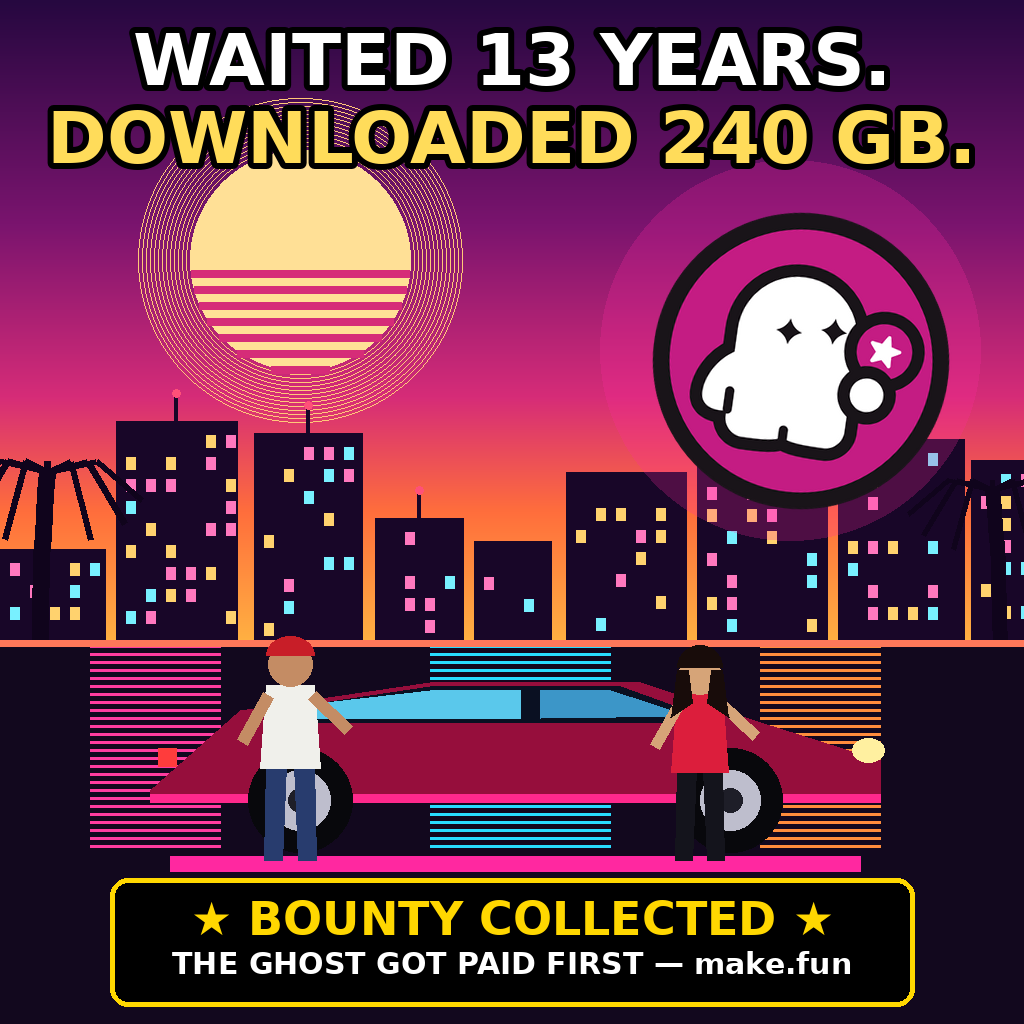
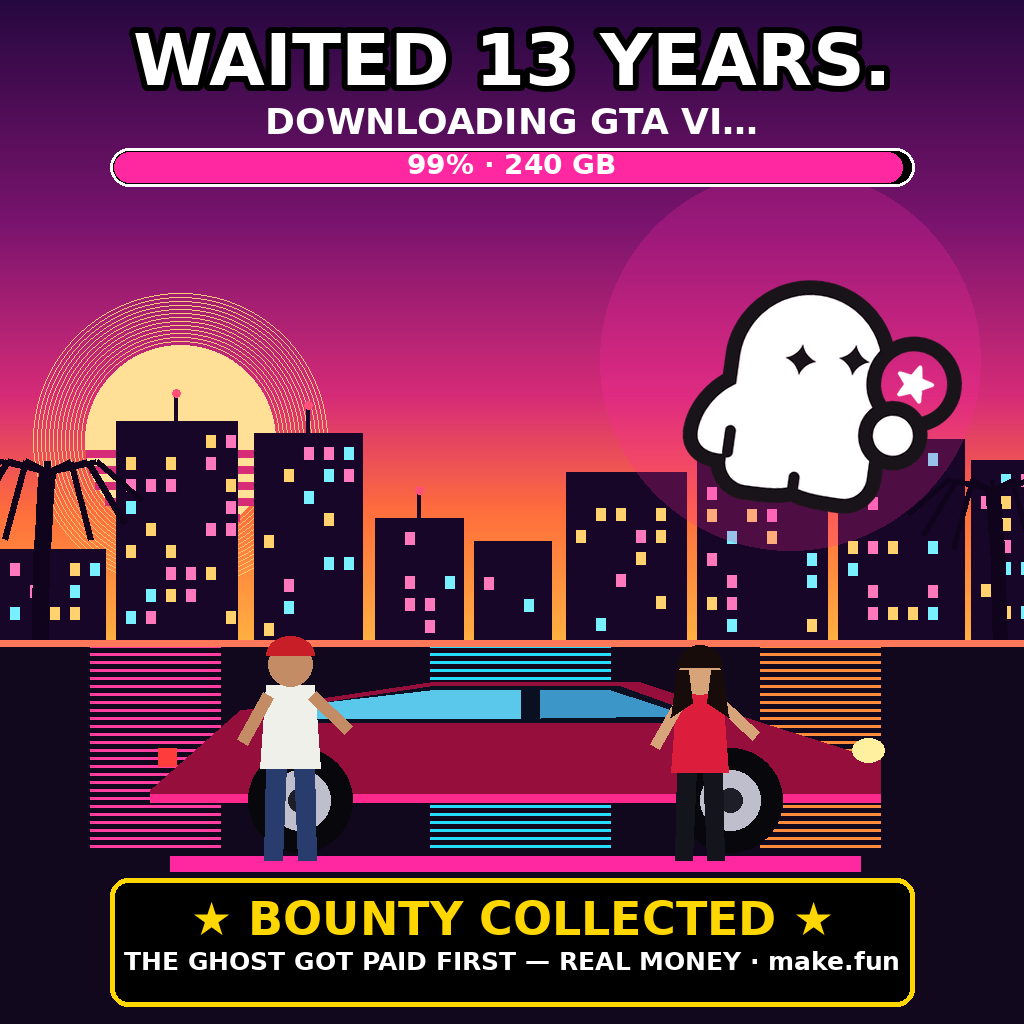
Meme v5: 99% download bar, de-badged ghost in the scene, REAL MONEY popup

diff --git a/scripts/make-meme.py b/scripts/make-meme.py
@@ -2,14 +2,17 @@
 """Draw the gta6-meme-x-01 meme: 'Waited 13 years. Downloaded 240 GB.
 The ghost got paid first.'
 
-Scene: a Vice City sunset. Jason and Lucia lean on a neon sports car,
-watching make.fun's ghost float by, clutching its magenta star coin.
-A GTA-style 'BOUNTY COLLECTED' popup delivers the punchline.
+Scene: a Vice City sunset. Jason and Lucia lean on their neon sports car
+while the GTA VI download sits stuck at 99%, and make.fun's ghost floats
+by, clutching its magenta star coin, already paid. A GTA-style
+'BOUNTY COLLECTED' popup delivers the punchline.
 
-The ghost is pasted in from make.fun's own press kit (mark-1024.png),
-the white ghost with sparkle eyes on its magenta disc, holding the
-magenta coin with the white star. No Rockstar artwork is used: the car,
-the figures, the skyline and the palms are all drawn here with PIL.
+The ghost comes from make.fun's own press kit (mark-1024.png), the white
+ghost with sparkle eyes holding the magenta coin with the white star;
+its magenta disc is stripped out at build time so the ghost itself floats
+in the scene instead of arriving as a round badge. No Rockstar artwork
+is used: the car, the figures, the skyline and the palms are all drawn
+here with PIL.
 """
 import math
 import os
@@ -51,7 +54,7 @@ def sunset(img):
 
 
 def sun(d):
-    cx, cy, r = 300, 260, 110
+    cx, cy, r = 180, 440, 95
     for i in range(14):
         rr = r + i * 4
         d.ellipse([cx - rr, cy - rr, cx + rr, cy + rr], outline=(255, 200, 120))
@@ -134,36 +137,78 @@ def car(d):
                fill=(255, 40, 160), width=2)
 
 
-def figure(d, x, y, s, kind):
-    """A flat-style figure seen from behind, leaning on the car and
-    looking up at the ghost. kind: 'jason' (cap, tank top) or 'lucia'
-    (long dark hair, red top)."""
+def figure(d, x, y, s, kind, running=False):
+    """A flat-style figure seen from behind. Standing: leaning on the car.
+    Running: mid-chase stride, arms pumping, leaning forward after it.
+    kind: 'jason' (cap, tank top) or 'lucia' (long dark hair, red top)."""
     if kind == "jason":
         skin, top, pants, hair = (196, 140, 100), (240, 240, 235), (40, 60, 110), (30, 22, 16)
     else:
         skin, top, pants, hair = (214, 164, 120), (220, 30, 60), (20, 20, 28), (24, 12, 10)
-    # legs
-    d.polygon([(x - 26 * s, y), (x - 8 * s, y), (x - 4 * s, y - 95 * s),
-               (x - 24 * s, y - 95 * s)], fill=pants)
-    d.polygon([(x + 8 * s, y), (x + 26 * s, y), (x + 24 * s, y - 95 * s),
-               (x + 4 * s, y - 95 * s)], fill=pants)
-    # torso, leaning slightly
-    d.polygon([(x - 30 * s, y - 92 * s), (x + 30 * s, y - 92 * s),
-               (x + 24 * s, y - 175 * s), (x - 24 * s, y - 175 * s)], fill=top)
-    # arms: one on the car, one raised toward the ghost
-    d.line([(x + 22 * s, y - 165 * s), (x + 58 * s, y - 130 * s)], fill=skin, width=int(13 * s))
-    d.line([(x - 22 * s, y - 165 * s), (x - 48 * s, y - 118 * s)], fill=skin, width=int(13 * s))
+    if running:
+        # lunge after the car: one leg forward, both arms reaching for it
+        lean = 14 * s
+        d.polygon([(x - 6 * s, y - 92 * s), (x + 12 * s, y - 92 * s),
+                   (x + 52 * s, y - 4 * s), (x + 34 * s, y)], fill=pants)
+        d.polygon([(x - 12 * s, y - 92 * s), (x + 2 * s, y - 92 * s),
+                   (x - 16 * s, y - 30 * s), (x - 30 * s, y - 4 * s)], fill=pants)
+        # torso leaning forward toward the car
+        d.polygon([(x - 30 * s, y - 92 * s), (x + 30 * s, y - 92 * s),
+                   (x + 38 * s, y - 175 * s), (x - 16 * s, y - 175 * s)], fill=top)
+        # both arms stretched out after the car
+        d.line([(x + 30 * s, y - 165 * s), (x + 78 * s, y - 145 * s)], fill=skin, width=int(13 * s))
+        d.line([(x + 26 * s, y - 150 * s), (x + 70 * s, y - 118 * s)], fill=skin, width=int(13 * s))
+        hx = x + lean
+    else:
+        # legs
+        d.polygon([(x - 26 * s, y), (x - 8 * s, y), (x - 4 * s, y - 95 * s),
+                   (x - 24 * s, y - 95 * s)], fill=pants)
+        d.polygon([(x + 8 * s, y), (x + 26 * s, y), (x + 24 * s, y - 95 * s),
+                   (x + 4 * s, y - 95 * s)], fill=pants)
+        # torso, leaning slightly
+        d.polygon([(x - 30 * s, y - 92 * s), (x + 30 * s, y - 92 * s),
+                   (x + 24 * s, y - 175 * s), (x - 24 * s, y - 175 * s)], fill=top)
+        # arms: one on the car, one raised toward the ghost
+        d.line([(x + 22 * s, y - 165 * s), (x + 58 * s, y - 130 * s)], fill=skin, width=int(13 * s))
+        d.line([(x - 22 * s, y - 165 * s), (x - 48 * s, y - 118 * s)], fill=skin, width=int(13 * s))
+        hx = x
     # head
-    d.ellipse([x - 22 * s, y - 218 * s, x + 22 * s, y - 174 * s], fill=skin)
+    d.ellipse([hx - 22 * s, y - 218 * s, hx + 22 * s, y - 174 * s], fill=skin)
     if kind == "jason":
-        d.pieslice([x - 24 * s, y - 224 * s, x + 24 * s, y - 186 * s], 180, 360,
+        d.pieslice([hx - 24 * s, y - 224 * s, hx + 24 * s, y - 186 * s], 180, 360,
                    fill=(200, 30, 40))  # cap dome, seen from behind
     else:
-        d.pieslice([x - 24 * s, y - 226 * s, x + 24 * s, y - 180 * s], 180, 360, fill=hair)
-        d.polygon([(x - 24 * s, y - 200 * s), (x - 30 * s, y - 150 * s),
-                   (x - 8 * s, y - 165 * s), (x - 12 * s, y - 200 * s)], fill=hair)
-        d.polygon([(x + 24 * s, y - 200 * s), (x + 30 * s, y - 150 * s),
-                   (x + 8 * s, y - 165 * s), (x + 12 * s, y - 200 * s)], fill=hair)
+        d.pieslice([hx - 24 * s, y - 226 * s, hx + 24 * s, y - 180 * s], 180, 360, fill=hair)
+        d.polygon([(hx - 24 * s, y - 200 * s), (hx - 30 * s, y - 150 * s),
+                   (hx - 8 * s, y - 165 * s), (hx - 12 * s, y - 200 * s)], fill=hair)
+        d.polygon([(hx + 24 * s, y - 200 * s), (hx + 30 * s, y - 150 * s),
+                   (hx + 8 * s, y - 165 * s), (hx + 12 * s, y - 200 * s)], fill=hair)
+
+
+def extract_ghost(path):
+    """Take make.fun's press-kit mark and keep only the ghost itself:
+    the white body, its black outline and sparkle eyes, and the white
+    star it holds. The magenta disc (and its black ring) is dropped, so
+    the ghost floats in the scene instead of arriving as a round badge.
+    The disc is identified by colour (magenta is neither white nor
+    black); the ring is dropped by radius from the mark's centre, which
+    the ghost's own outline never reaches."""
+    import numpy as np
+
+    im = Image.open(path).convert("RGBA")
+    a = np.array(im).astype(int)
+    r, g, b, orig_alpha = a[..., 0], a[..., 1], a[..., 2], a[..., 3]
+    white = (r > 170) & (g > 170) & (b > 170)
+    black = (r < 110) & (g < 110) & (b < 110)
+    keep = white | black
+    yy, xx = np.mgrid[0:1024, 0:1024]
+    radius = np.sqrt((xx - 512) ** 2 + (yy - 512) ** 2)
+    keep = keep & (radius <= 420)  # the disc's outer ring lives past this
+    mx, mn = a[..., :3].max(axis=2), a[..., :3].min(axis=2)
+    fringe = (~keep) & (mn > 120) & ((mx - mn) < 90)
+    alpha = np.where(keep, 255, np.where(fringe, 160, 0)).astype("uint8")
+    alpha = np.where(orig_alpha == 0, 0, alpha).astype("uint8")
+    return Image.fromarray(np.dstack([a[..., :3].astype("uint8"), alpha]), "RGBA")
 
 
 def outline_text(d, xy, text, fnt, fill, stroke=(0, 0, 0), sw=6):
@@ -182,32 +227,43 @@ def main():
     palm(d, 1000, 640, 170, lean=-1)
     road(d)
     car(d)
+    # Jason and Lucia lean on their ride, watching the download crawl.
     figure(d, 290, 860, 1.0, "jason")
     figure(d, 700, 860, 0.95, "lucia")
 
-    # The ghost: make.fun's own mascot, large and unmissable, floating
-    # over the scene with its magenta star coin.
-    ghost = Image.open(os.path.join(ROOT, "assets", "mark-1024.png")).convert("RGBA")
-    ghost = ghost.resize((320, 320), Image.LANCZOS).rotate(-8, expand=True,
+    # The ghost: make.fun's own mascot, de-badged so it floats in the
+    # scene instead of arriving as a round badge, large and unmissable.
+    ghost = extract_ghost(os.path.join(ROOT, "assets", "mark-1024.png"))
+    ghost = ghost.resize((380, 380), Image.LANCZOS).rotate(-8, expand=True,
                                                           resample=Image.BICUBIC)
     glow = Image.new("RGBA", (W, H), (0, 0, 0, 0))
     gd = ImageDraw.Draw(glow)
-    gd.ellipse([600, 160, 980, 540], fill=(255, 40, 160, 60))
+    gd.ellipse([600, 170, 980, 550], fill=(255, 40, 160, 60))
     img = Image.alpha_composite(img.convert("RGBA"), glow)
-    img.paste(ghost, (620, 180), ghost)
+    img.paste(ghost, (600, 180), ghost)
     d = ImageDraw.Draw(img)
 
-    # Top caption: the setup, two big beats.
+    # Top caption: the setup, one big beat.
     outline_text(d, (W // 2, 18), "WAITED 13 YEARS.", font(72), (255, 255, 255))
-    outline_text(d, (W // 2, 96), "DOWNLOADED 240 GB.", font(72), (255, 220, 90))
+    # The download that never finishes: a progress bar stuck at 99%.
+    d.text((512, 100), "DOWNLOADING GTA VI…", font=font(36), fill=(255, 255, 255),
+           anchor="ma")
+    d.rounded_rectangle([110, 148, 914, 186], radius=19,
+                        fill=(0, 0, 0), outline=(255, 255, 255), width=3)
+    d.rounded_rectangle([114, 152, 114 + int(796 * 0.99), 182], radius=15,
+                        fill=(255, 40, 160))
+    d.text((512, 148), "99% · 240 GB", font=font(28), fill=(255, 255, 255), anchor="ma")
 
     # GTA-style popup: black slab, yellow headline, white subline.
     d.rounded_rectangle([110, 878, 914, 1006], radius=18,
                         fill=(0, 0, 0), outline=(255, 215, 0), width=5)
     d.text((512, 892), "★ BOUNTY COLLECTED ★", font=font(46), fill=(255, 215, 0),
            anchor="ma")
-    d.text((512, 946), "THE GHOST GOT PAID FIRST — make.fun",
-           font=font(30), fill=(255, 255, 255), anchor="ma")
+    sub = "THE GHOST GOT PAID FIRST — REAL MONEY · make.fun"
+    size = 30
+    while d.textlength(sub, font=font(size)) > 780 and size > 18:
+        size -= 1
+    d.text((512, 946), sub, font=font(size), fill=(255, 255, 255), anchor="ma")
 
     out = os.path.join(ROOT, "meme.png")
     img.convert("RGB").save(out, "PNG")

diff --git a/README.md b/README.md
@@ -8,11 +8,13 @@ A GTA 6 meme for the [make.fun bounty "Post a GTA 6 meme on X"](https://make.fun
 
 ![The meme](meme.png)
 
-**The joke:** Waited 13 years. Downloaded 240 GB. The ghost got paid first.
-Jason and Lucia lean on their neon ride in Vice City, watching make.fun's
-ghost float by with its magenta star coin — while they're still waiting on
-the download, the ghost already collected a bounty. The GTA-style popup
-says it plainly: ★ BOUNTY COLLECTED ★.
+**The joke:** Waited 13 years. The download is stuck at 99% of 240 GB.
+The ghost got paid first. Jason and Lucia lean on their neon ride in
+Vice City, still waiting on the download, while make.fun's ghost floats
+by with its magenta star coin — already collected a bounty. The GTA-style
+popup says it plainly: ★ BOUNTY COLLECTED ★ — the ghost got paid first,
+in real money.
+★ BOUNTY COLLECTED ★ — the ghost got paid first, in real money.
 
 make.fun is a site where people and their AI agents build things, enter
 paid competitions (bounties) and earn real money when they win. The meme
